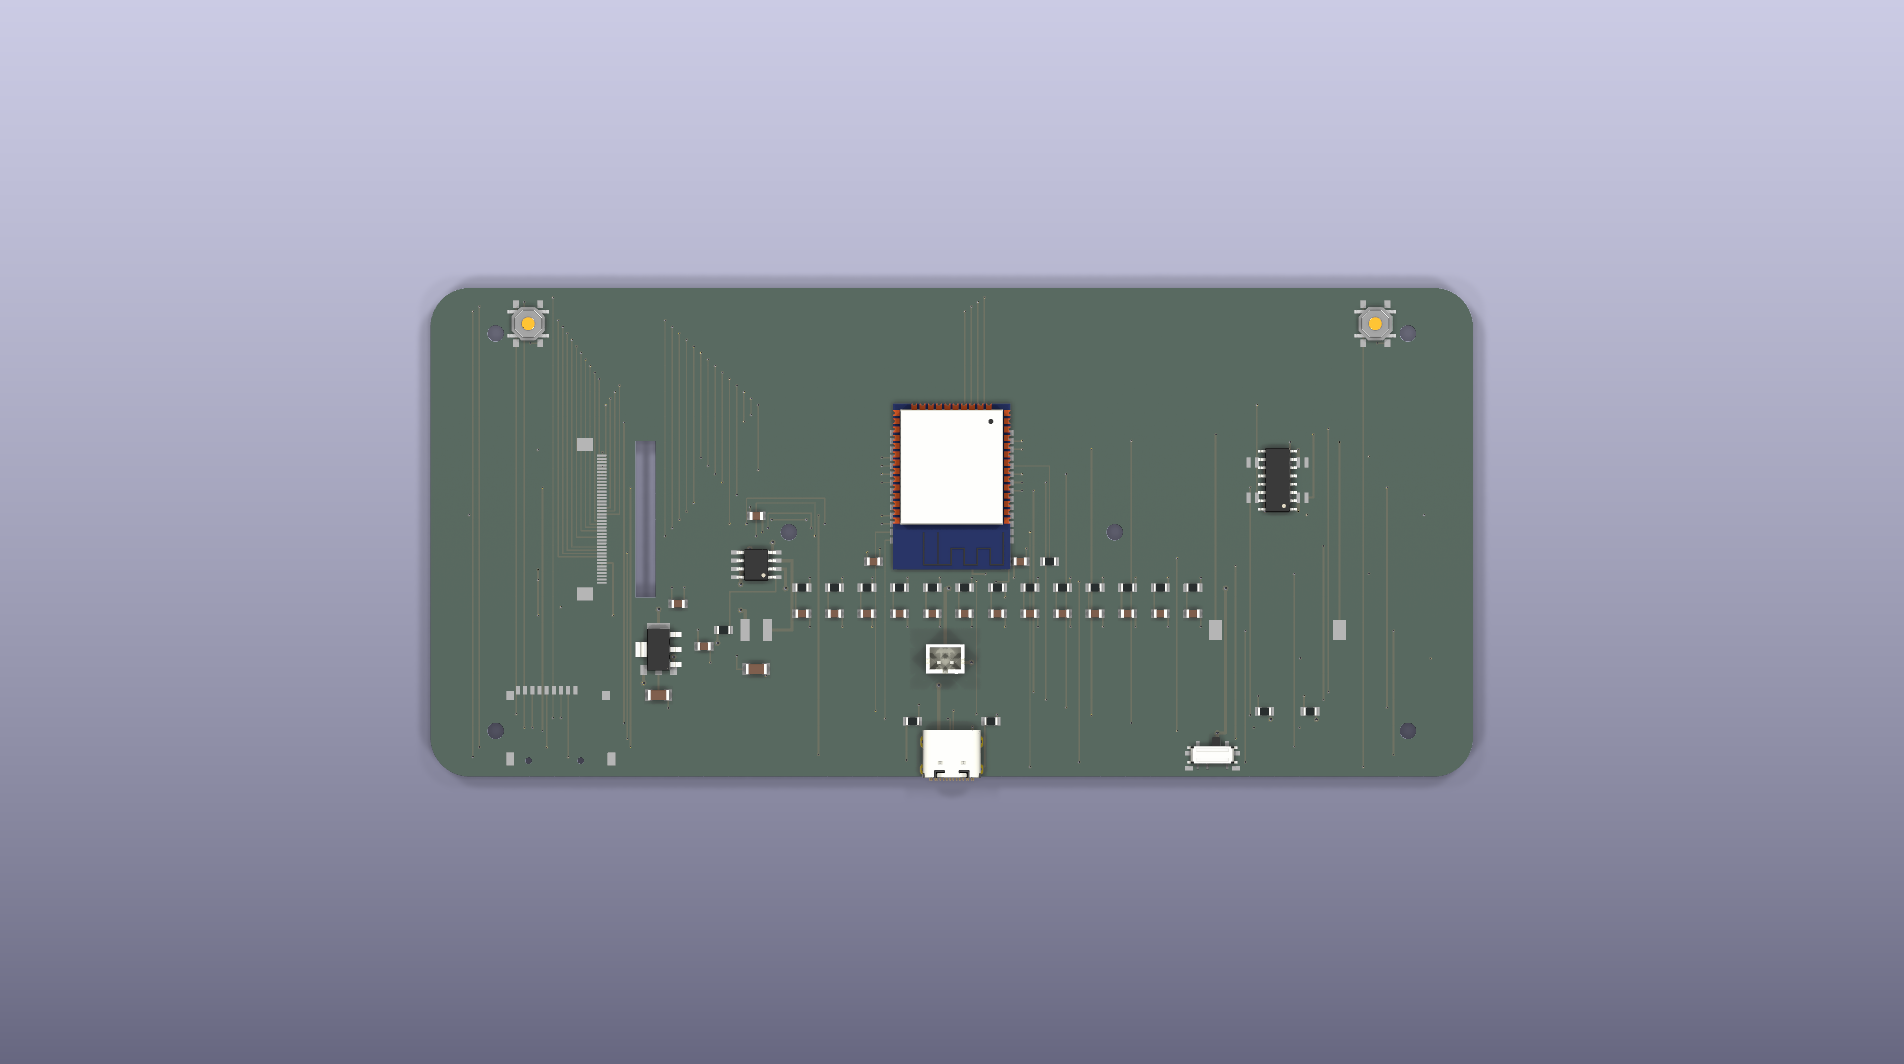
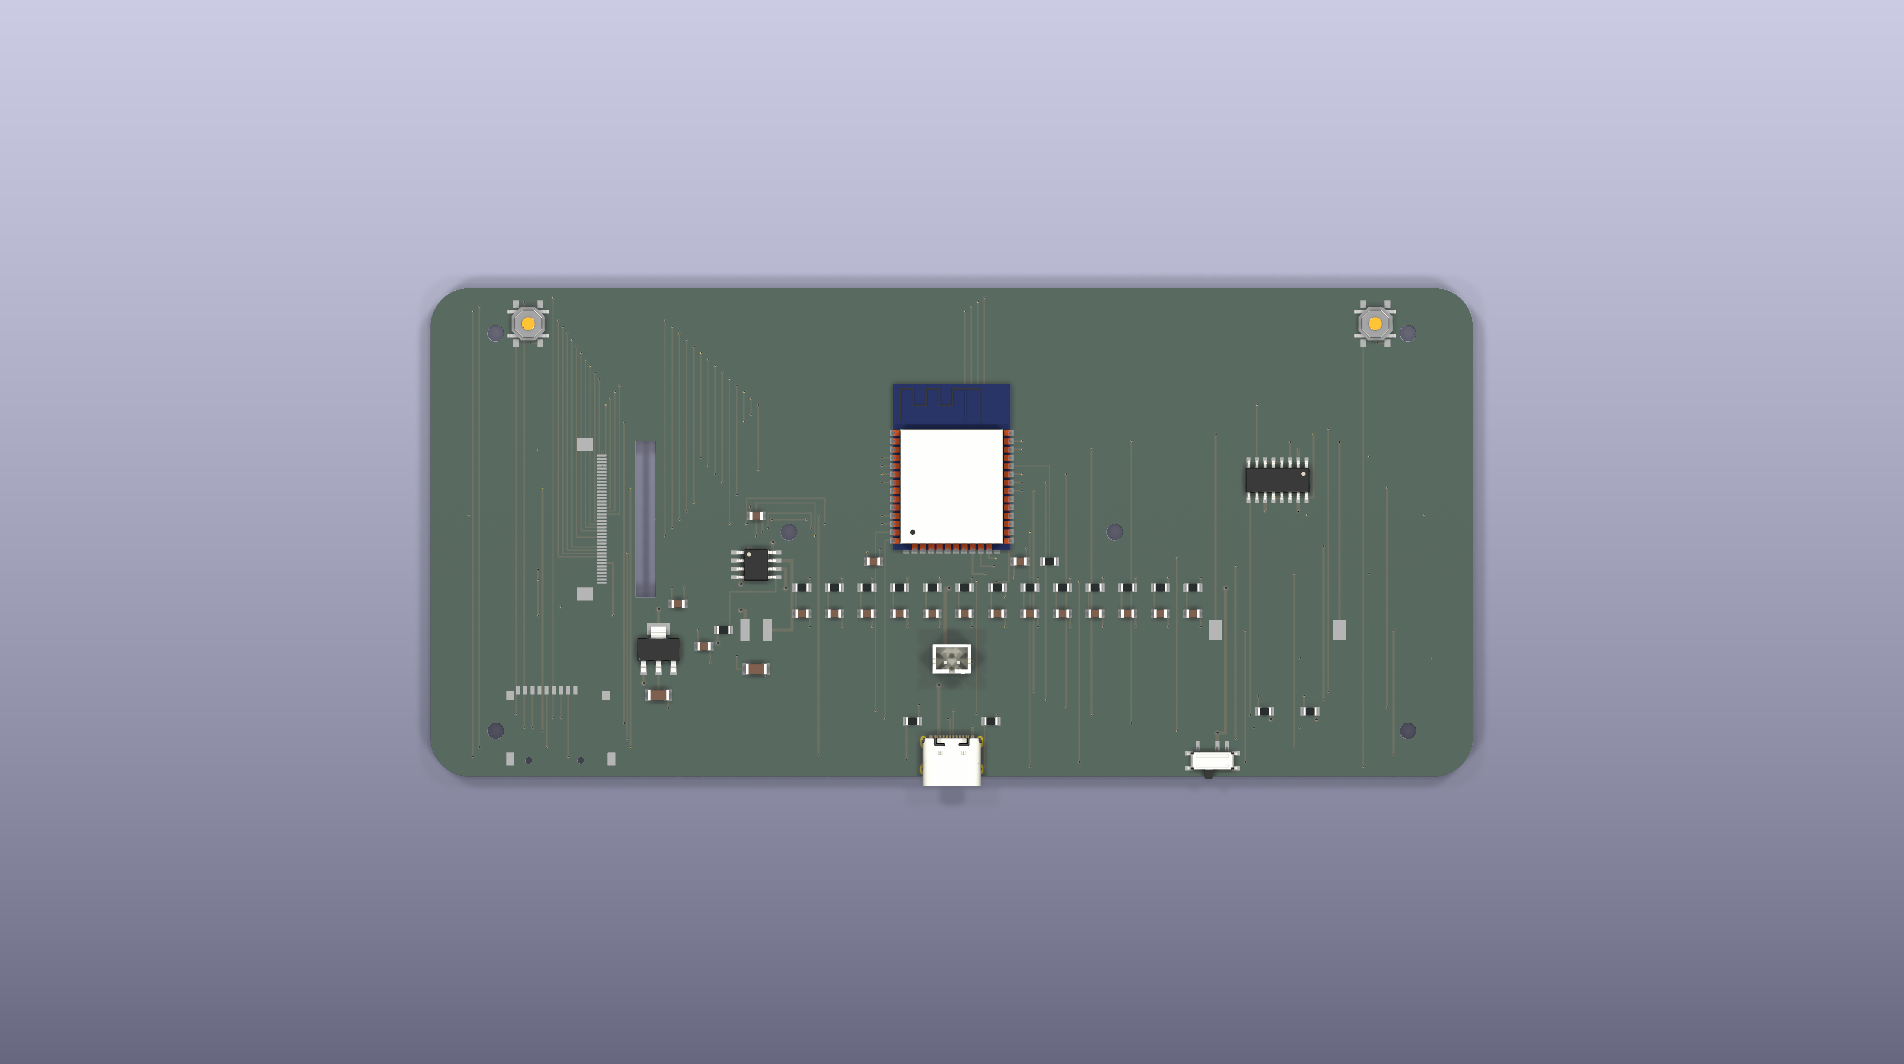
feat: add 3D PCBA raytraced renders with corrected model alignment
- Fix inject-3d-models.py: add per-footprint offset/rotation to align
  3D models with custom footprints on B.Cu (ESP32 Y-3mm, AMS1117 90°,
  IP5306 180°, PAM8403 270°, USB-C Y+1.3mm/180°, switch 180°)
- Generate 12 render views: top, bottom, 4 isometric angles, low-angle,
  2 detail zooms (buttons + ESP32), 2 transparent, 1 iso-bottom
- Remove old pcba-detail-mcu.png (replaced by detail-buttons + detail-esp32)

diff --git a/scripts/inject-3d-models.py b/scripts/inject-3d-models.py
@@ -15,21 +15,41 @@ from pathlib import Path
 # KiCad 3D model base variable (KICAD9 var resolves in KiCad 9.x/10 nightly)
 M = "${KICAD9_3DMODEL_DIR}"
 
-# Footprint name → 3D model path mapping
-# Paths use KiCad environment variable so they work in Docker and GUI
+# Footprint name → (3D model path, offset_xyz, rotation_xyz)
+# Offsets/rotations compensate for differences between custom footprints
+# and KiCad standard library footprints the 3D models were designed for.
 MODEL_MAP = {
-    "R_0805":       f"{M}/Resistor_SMD.3dshapes/R_0805_2012Metric.step",
-    "C_0805":       f"{M}/Capacitor_SMD.3dshapes/C_0805_2012Metric.step",
-    "C_1206":       f"{M}/Capacitor_SMD.3dshapes/C_1206_3216Metric.step",
-    "LED_0805":     f"{M}/LED_SMD.3dshapes/LED_0805_2012Metric.step",
-    "SOT-223":      f"{M}/Package_TO_SOT_SMD.3dshapes/SOT-223.step",
-    "ESOP-8":       f"{M}/Package_SO.3dshapes/SOIC-8_3.9x4.9mm_P1.27mm.step",
-    "SOP-16":       f"{M}/Package_SO.3dshapes/SOIC-16_3.9x9.9mm_P1.27mm.step",
-    "ESP32-S3-WROOM-1-N16R8": f"{M}/RF_Module.3dshapes/ESP32-WROOM-32.step",
-    "USB-C-16P":    f"{M}/Connector_USB.3dshapes/USB_C_Receptacle_GCT_USB4105-xx-A_16P_TopMnt_Horizontal.step",
-    "JST-PH-2P":   f"{M}/Connector_JST.3dshapes/JST_PH_B2B-PH-K_1x02_P2.00mm_Vertical.step",
-    "SS-12D00G3":   f"{M}/Button_Switch_SMD.3dshapes/SW_SPDT_PCM12.step",
-    "SW-SMD-5.1x5.1": f"{M}/Button_Switch_SMD.3dshapes/SW_SPST_TL3342.step",
+    "R_0805":       (f"{M}/Resistor_SMD.3dshapes/R_0805_2012Metric.step",
+                     (0, 0, 0), (0, 0, 0)),
+    "C_0805":       (f"{M}/Capacitor_SMD.3dshapes/C_0805_2012Metric.step",
+                     (0, 0, 0), (0, 0, 0)),
+    "C_1206":       (f"{M}/Capacitor_SMD.3dshapes/C_1206_3216Metric.step",
+                     (0, 0, 0), (0, 0, 0)),
+    "LED_0805":     (f"{M}/LED_SMD.3dshapes/LED_0805_2012Metric.step",
+                     (0, 0, 0), (0, 0, 0)),
+    # SOT-223 (AMS1117): on B.Cu, 270° + 180° = 450° → 90°
+    "SOT-223":      (f"{M}/Package_TO_SOT_SMD.3dshapes/SOT-223.step",
+                     (0, 0, 0), (0, 0, 90)),
+    # ESOP-8 (IP5306): on B.Cu, 0° + 180° = 180°
+    "ESOP-8":       (f"{M}/Package_SO.3dshapes/SOIC-8_3.9x4.9mm_P1.27mm.step",
+                     (0, 0, 0), (0, 0, 180)),
+    # SOP-16 (PAM8403): on B.Cu with 90° placement rotation, needs 180°+90° = 270°
+    "SOP-16":       (f"{M}/Package_SO.3dshapes/SOIC-16_3.9x9.9mm_P1.27mm.step",
+                     (0, 0, 0), (0, 0, 270)),
+    # ESP32: on B.Cu, 180° rotation + Y offset 3mm for pin alignment
+    "ESP32-S3-WROOM-1-N16R8": (f"{M}/RF_Module.3dshapes/ESP32-WROOM-32.step",
+                     (0, 3.0, 0), (0, 0, 180)),
+    # USB-C: on B.Cu, 180° rotation + Y offset for origin alignment
+    "USB-C-16P":    (f"{M}/Connector_USB.3dshapes/USB_C_Receptacle_GCT_USB4105-xx-A_16P_TopMnt_Horizontal.step",
+                     (0, 1.3, 0), (0, 0, 180)),
+    # JST-PH-2P: custom centered on (0,0), standard has pin 1 at origin
+    "JST-PH-2P":   (f"{M}/Connector_JST.3dshapes/JST_PH_B2B-PH-K_1x02_P2.00mm_Vertical.step",
+                     (-1.0, 0, 0), (0, 0, 0)),
+    # MSK12C02 slide switch: on B.Cu, 180° + small Y offset
+    "SS-12D00G3":   (f"{M}/Button_Switch_SMD.3dshapes/SW_SPDT_PCM12.step",
+                     (0, 0.25, 0), (0, 0, 180)),
+    "SW-SMD-5.1x5.1": (f"{M}/Button_Switch_SMD.3dshapes/SW_SPST_TL3342.step",
+                     (0, 0, 0), (0, 0, 0)),
     # No good match — skip these:
     # "SMD-4x4x2"  → Crystal (no exact 4x4 match in library)
     # "FPC-40P-0.5mm" → FPC connector (no exact 40P match)
@@ -39,9 +59,9 @@ MODEL_MAP = {
 }
 
 MODEL_TEMPLATE = """		(model "{path}"
-			(offset (xyz 0 0 0))
+			(offset (xyz {ox} {oy} {oz}))
 			(scale (xyz 1 1 1))
-			(rotate (xyz 0 0 0))
+			(rotate (xyz {rx} {ry} {rz}))
 		)
 """
 
@@ -85,10 +105,13 @@ def inject_models(pcb_text: str) -> tuple[str, dict]:
                 continue
 
             # Find matching 3D model
-            model_path = MODEL_MAP.get(fp_name)
-            if model_path:
+            mapping = MODEL_MAP.get(fp_name)
+            if mapping:
+                model_path, (ox, oy, oz), (rx, ry, rz) = mapping
                 # Insert model entry before the last closing paren
-                model_entry = MODEL_TEMPLATE.format(path=model_path).rstrip()
+                model_entry = MODEL_TEMPLATE.format(
+                    path=model_path, ox=ox, oy=oy, oz=oz,
+                    rx=rx, ry=ry, rz=rz).rstrip()
                 # Insert before the last line (which is the closing paren)
                 fp_lines.insert(-1, model_entry)
                 stats["matched"] += 1
